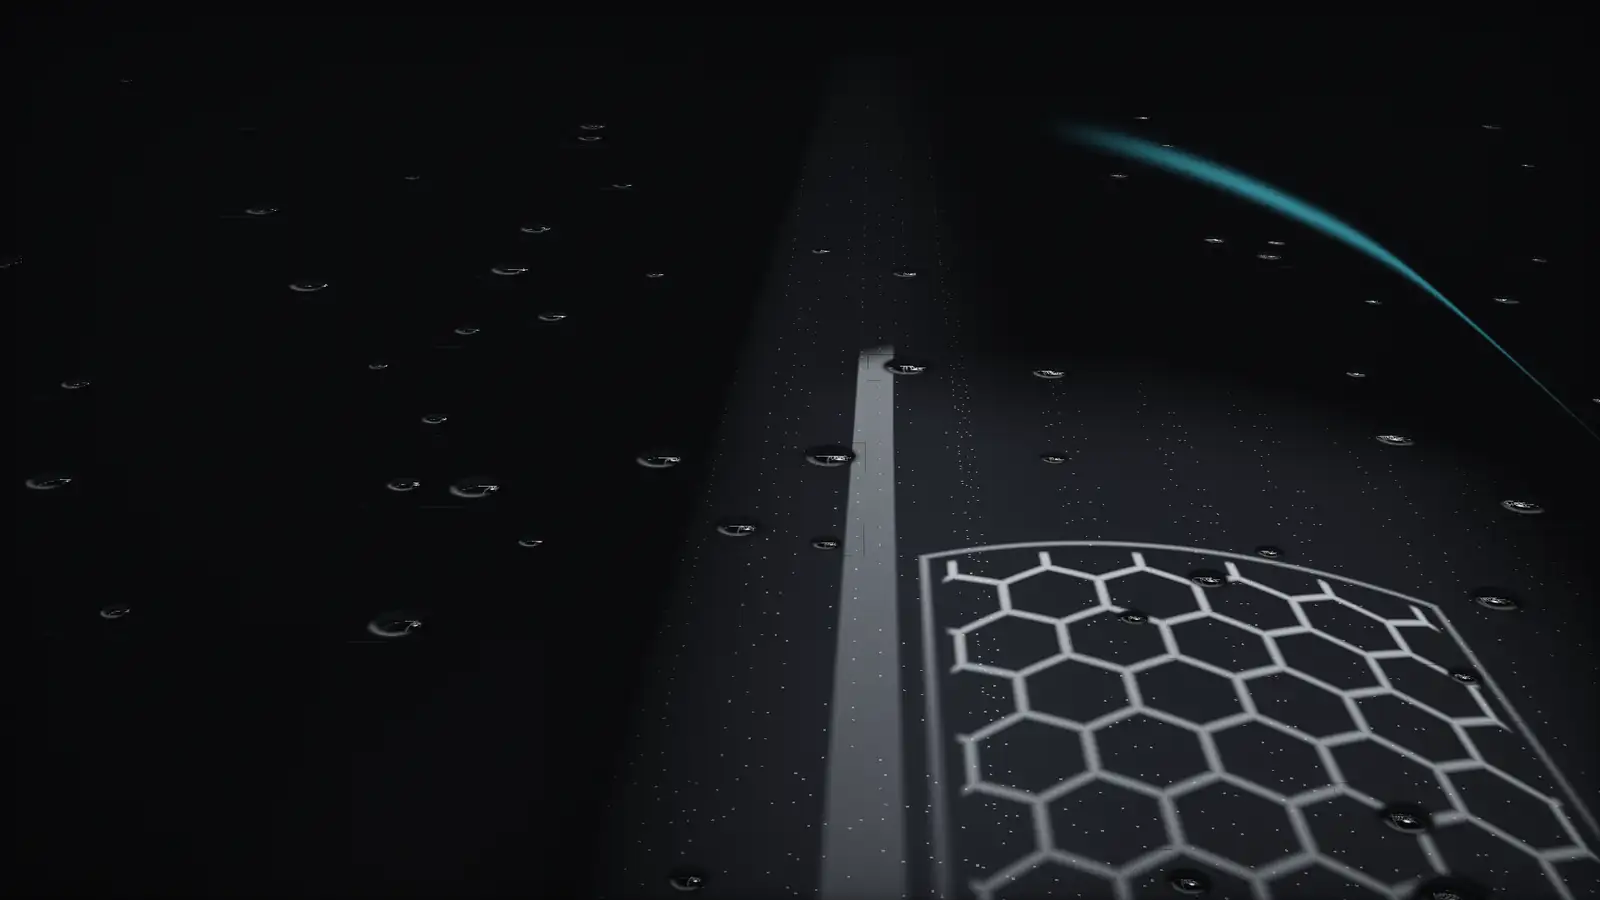
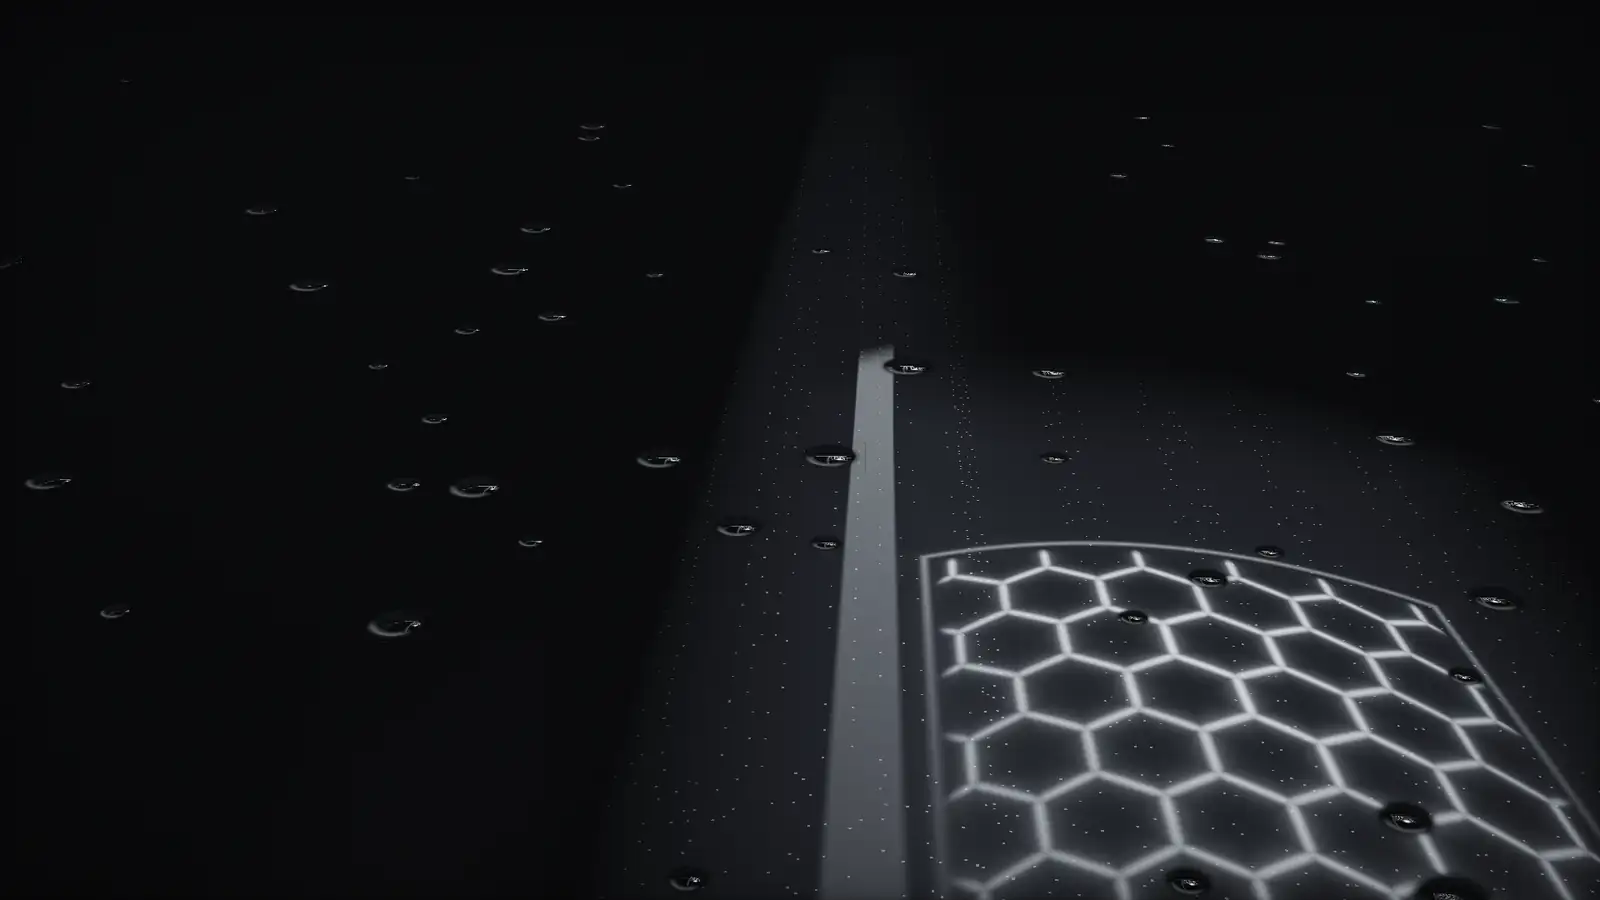
Runda 3: lampy jak świetlówki, przed/po, nagłówek mobile, karty stanu lakieru

diff --git a/assets/paint.js b/assets/paint.js
@@ -53,25 +53,35 @@ vec3 env(vec3 d, vec3 P, float blur){
   vec3 col = vec3(0.003,0.0035,0.0048);
   /* miękkie panele na ścianach bocznych: rysują zaokrąglenie błotników */
   col += vec3(0.07,0.075,0.085) * smoothstep(0.0,0.22,d.y) * smoothstep(0.55,0.22,d.y) * smoothstep(0.35,0.95,abs(d.x)) * uIntro;
-  float strip = exp(-pow((d.y-0.05)/(0.005+blur*0.05),2.)) * smoothstep(-0.2,-0.8,d.z) * smoothstep(0.22,0.05,abs(d.x-0.3));
-  col += vec3(0.16,0.72,0.86) * strip * 0.55 * uIntro;
   if (d.y > 0.02){
     float t; vec2 c = ceil2(d, P, t);
     vec4 hc = hexCoords(c/(uMode > 0.5 ? 0.5 : 0.6));
     float e = .5 - hexDist(hc.xy);
     float aa = FW(e)*1.2 + blur*0.5 + 0.0015;
-    float w = 0.042;
-    float line = (1. - smoothstep(w - aa, w + aa, e)) * (w/(w + blur*0.5));
+    float w = 0.036;
+    /* rura LED: jasny rdzeń + halo (bloom) zamiast płaskiego konturu; rozmycie zachowuje energię */
+    float core = (1. - smoothstep(w - aa, w + aa, e)) * (w/(w + blur*0.5));
+    core *= 0.55 + 0.45*(1. - smoothstep(0., w, e));   /* jaśniejszy środek rury */
+    float halo = exp(-max(e - w, 0.)/(0.05 + blur*0.6)) * (0.16 + blur*0.5) + exp(-max(e - w, 0.)/0.012)*0.25*(1. - blur*2.);
+    /* każda rura ma trochę inną jasność i ciemniejsze złącza w narożach */
+    float ang = atan(hc.y, hc.x);
+    float seg = floor((ang + 3.14159 + 0.5236)/1.0472);
+    float tubeVar = 0.86 + 0.24*h1(hc.zw*1.37 + seg*7.1);
+    float corner = smoothstep(0.02, 0.07, abs(fract((ang + 3.14159)/1.0472) - 0.5)*0.6);
     vec2 bx = abs(c) - vec2(1.55, 2.1);
     float box = max(bx.x, bx.y);
-    float inside = 1. - smoothstep(-0.04, 0.04, box);
+    float inside = 1. - smoothstep(-0.04, 0.04 + blur, box);
+    /* spadek jasności ku krawędziom pola lamp */
+    float falloff = 0.55 + 0.45*smoothstep(0.2, -1.6, box);
     float on = lightOn(hc.zw);
     float fog = exp(-t*0.045);
     vec3 tube = vec3(0.88,0.94,1.0);
-    col += tube * line * inside * on * 7.0 * fog;
+    col += tube * (core*(0.6 + 0.4*corner) + halo) * tubeVar * falloff * inside * on * 10.0 * fog;
     float fr = abs(box - 0.13);
     float faa = FW(fr) + blur*0.5 + 0.002;
-    col += tube * (1.-smoothstep(0.024-faa,0.024+faa,fr)) * 5.0 * fog * sat(uIntro*1.4-0.6) * (0.024/(0.024+blur*0.5));
+    col += tube * ((1.-smoothstep(0.02-faa,0.02+faa,fr)) * (0.02/(0.02+blur*0.5)) + exp(-fr/(0.03+blur*0.6))*0.08) * 4.0 * fog * sat(uIntro*1.4-0.6);
+    /* poświata całego pola (rozpraszanie w lakierze) */
+    col += tube * (1. - smoothstep(-0.6, 1.4, box)) * 0.045 * on * fog;
     /* długi softbox wzdłuż auta, po lewej */
     float sb = (1. - smoothstep(0.16, 0.16 + 0.02 + blur*0.6, abs(c.x + 2.05))) * smoothstep(6.5, 5.5, abs(c.y + 1.));
     col += tube * sb * (uMode > 0.5 ? 2.2 : 1.1) * fog * sat(uIntro*2.-0.5);
@@ -133,7 +143,7 @@ void main(){
 
     /* płytka głębia ostrości: rozmycie rośnie z odległością od płaszczyzny ostrości */
     float focus = cmp ? 1.6 : 1.9;
-    float coc = cmp ? 0.0 : sat(abs(t - focus)/t * 0.55);
+    float coc = sat(abs(t - focus)/t * (cmp ? 0.25 : 0.55));
 
     float defect = 0.;
     if (cmp){
@@ -148,10 +158,10 @@ void main(){
     vec3 refl = env(r, P, coc*0.35);
     if (defect > 0.001){
       vec3 o1 = normalize(cross(r, vec3(0.,1.,0.)) + 1e-4), o2 = cross(r, o1);
-      float s = 0.045;
-      vec3 hz2 = env(normalize(r + o1*s), P, .3) + env(normalize(r - o1*s), P, .3)
-               + env(normalize(r + o2*s), P, .3) + env(normalize(r - o2*s), P, .3);
-      refl = mix(refl, hz2*0.22, defect*0.85);
+      float s = 0.11;
+      vec3 hz2 = env(normalize(r + o1*s), P, .7) + env(normalize(r - o1*s), P, .7)
+               + env(normalize(r + o2*s), P, .7) + env(normalize(r - o2*s), P, .7);
+      refl = mix(refl, hz2*0.2, defect*0.96);
     }
 
     float soft = envSoft(normalize(r + vec3(0., 0.12, 0.)), P);
@@ -175,16 +185,16 @@ void main(){
         float k = floor(rho);
         float ang = atan(dv.y, dv.x);
         float hk = h1(vec2(k, cell.x*13. + cell.y*7. + float(L)));
-        float arc = smoothstep(0.55, 0.98, sin(ang*2. + hk*6.283)) * step(0.55, hk);
+        float arc = smoothstep(0.55, 0.98, sin(ang*2. + hk*6.283)) * step(0.55, hk) * (0.25 + 0.75*fract(hk*13.7));
         float ln = 1. - smoothstep(0.0, 0.08 + FW(rho)*0.9, abs(fract(rho) - 0.5));
         sw += arc*ln;
       }
-      col += vec3(0.8,0.85,0.9) * glow * glow * sw * defect * 0.3;
+      col += vec3(0.8,0.85,0.9) * glow * glow * sw * defect * 0.14;
       vec2 wq = q*3.1; vec2 wc = floor(wq); vec2 wh = h2(wc+4.2);
       float wr = 0.16 + 0.12*wh.x;
       float wd = length(fract(wq) - (0.32 + 0.36*wh));
       float spot = step(0.6, wh.y) * (1. - smoothstep(0.0, 0.015 + FW(wd), abs(wd - wr)));
-      col += vec3(0.02) * spot * defect * (0.2 + soft);
+      col += vec3(0.03) * spot * defect * soft * 1.5;
     }
 
     /* krople wody na ceramice */

diff --git a/assets/styles.css b/assets/styles.css
@@ -156,6 +156,7 @@ p{margin:0}
 .mirror{padding:0;height:100svh;min-height:560px;overflow:hidden;border-top:1px solid var(--line)}
 .mirror__canvas,.mirror__poster{position:absolute;inset:0;width:100%;height:100%}
 .mirror__poster{background:#06080c url(img/mirror-poster.webp) center/cover no-repeat}
+.mirror::after{content:"";position:absolute;inset:0 0 auto 0;height:62%;z-index:1;pointer-events:none;background:linear-gradient(180deg,rgba(8,11,18,.82) 0%,rgba(8,11,18,.55) 45%,rgba(8,11,18,0) 100%)}
 .mirror__head{position:absolute;left:var(--m);top:calc(var(--nav-h) + var(--s7));z-index:2;display:grid;gap:var(--s5);max-width:min(760px,80vw);pointer-events:none}
 .mirror__head .h2{font-size:clamp(36px,5.4vw,88px)}
 .mirror__tags{position:absolute;left:var(--m);right:var(--m);bottom:var(--s6);z-index:2;display:flex;justify-content:space-between;align-items:flex-end;gap:var(--s5);pointer-events:none}
@@ -229,7 +230,10 @@ legend .label{color:var(--cyan)}
 .swatch[data-c="normal"]{--b:3px}
 .swatch[data-c="normal"]::before,.swatch[data-c="worn"]::before{content:"";position:absolute;inset:0;background:repeating-radial-gradient(circle at 62% 38%,transparent 0 5px,rgba(244,247,251,var(--sw,.07)) 5px 6px);mix-blend-mode:screen;-webkit-mask:linear-gradient(170deg,transparent 10%,#000 30%,#000 50%,transparent 70%);mask:linear-gradient(170deg,transparent 10%,#000 30%,#000 50%,transparent 70%)}
 .swatch[data-c="worn"]{--b:9px;--sw:.16;background:linear-gradient(160deg,#2a303a 0%,#11151c 60%)}
-.cond__name{font-size:15px;line-height:1.3}
+.cond__name{font-size:15px;line-height:1.3;display:block;min-height:2.6em}
+.conds .opt{display:grid}
+.cond{grid-template-rows:auto 1fr}
+.cond>span:last-child{align-self:end}
 .opt input:checked+.cond{background:var(--ink-3)}
 .opt input:checked+.cond .cond__name{color:var(--text)}
 .opt input:checked+.cond .label{color:var(--cyan)}
@@ -387,7 +391,8 @@ fieldset:disabled .opt{cursor:not-allowed}
   .brand small{display:none}
   .nav{gap:var(--s3)}
   .nav__where{font-size:10px}
-  .nav__cta{padding:0 var(--s3);font-size:13px;min-height:40px}
+  .nav__cta{padding:0 var(--s4);font-size:13px;min-height:44px;margin-left:var(--s2)}
+  .nav__menu{margin-left:calc(var(--s2) * -1)}
   .hero{height:130svh}
   .hero__title{font-size:clamp(34px,10.4vw,56px);font-stretch:112%}
   .hero__poster{background-image:url(img/hero-poster-m.webp)}
@@ -414,7 +419,9 @@ fieldset:disabled .opt{cursor:not-allowed}
   .svc{grid-template-columns:1fr}
   .svc__fig{display:none}
   .conds{grid-template-columns:1fr}
-  .cond{grid-template-columns:96px 1fr;align-items:center}
+  .cond{grid-template-columns:96px 1fr;grid-template-rows:auto;align-items:center}
+  .cond__name{min-height:0}
+  .cond>span:last-child{align-self:center}
   .dock{position:fixed;left:0;right:0;bottom:0;z-index:40;display:flex;align-items:center;justify-content:space-between;gap:var(--s4);padding:var(--s3) var(--m);padding-bottom:calc(var(--s3) + env(safe-area-inset-bottom));background:rgba(12,16,25,.94);-webkit-backdrop-filter:blur(12px);backdrop-filter:blur(12px);border-top:1px solid var(--line-2);transform:translateY(110%);transition:transform .5s var(--ease)}
   .dock.is-on{transform:none}
   .dock__p{font-stretch:118%;font-weight:600;font-size:20px;letter-spacing:-.02em;white-space:nowrap}
@@ -434,7 +441,7 @@ fieldset:disabled .opt{cursor:not-allowed}
   .f input,.f select,.f textarea{font-size:16px}
   .foot__word{font-size:15.4vw}
 }
-@media (max-width:380px){.nav__where{display:none}.nav__menu{margin-left:auto}}
+@media (max-width:380px){.nav__where{display:none}.nav__cta{margin-left:auto}}
 @media (hover:none),(pointer:coarse){.cursor{display:none}}
 @media (prefers-reduced-motion:reduce){
   *,*::before,*::after{animation-duration:.01ms!important;animation-iteration-count:1!important;transition-duration:.01ms!important;scroll-behavior:auto!important}
